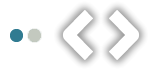
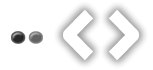
add tick and js

Changed region(s): [[0.0523, 0.4, 0.2876, 0.6286]]

diff --git a/js/aqua-script.js b/js/aqua-script.js
@@ -2,6 +2,7 @@
 	$.fn.extend({
 		aquaSlider: function(width,height,type){
 			var aqua_self = $(this);
+			aqua_self.wrap("<div class='aqua-slider-control-container'></div>");
 			var options = {
 				w: width,
 				h: height,
@@ -26,6 +27,10 @@
 				width: options.w,
 				height: options.h
 			});
+			$(".aqua-slider-control-container").css({
+				width: options.w,
+				height: options.h
+			})
 
 			// Set class to all images 
 			var aqua_images_count = 0;
@@ -53,7 +58,7 @@
 			// "ticks" control
 			var aqua_tick_container = $("<div>");
 			aqua_tick_container.addClass("aqua-slider-bot-container");
-			$(".aqua-slider-container").append(aqua_tick_container);
+			$(".aqua-slider-container").after(aqua_tick_container);
 			$(".aqua-slider-bot-container").append("<div>");
 			var index;
 			for(index = 1;index<=aqua_images_count;index++){
@@ -120,14 +125,13 @@
 			}
 
 			function aqua_slider_current_tick(){
-				current = {
-					image: $(".aqua-slider-image-show"),
-					image_data: $(".aqua-slider-image-show").data("img-data-number"),
-				 	tick: $(".aqua-slider-tick-select").data("img-select-tick")
-				};
-
-				//var tick_target =  $.data()
-				//$(".aqua-slider-tick").
+				img_data = $(".aqua-slider-image-show").attr("img-data-number");
+				$(".aqua-slider-tick").each(function(){
+					if($(this).attr("img-select-tick") == img_data)
+						$(this).addClass("aqua-slider-tick-select").removeClass("aqua-slider-tick-deselect");
+					else
+						$(this).addClass("aqua-slider-tick-deselect").removeClass("aqua-slider-tick-select");
+				});
 			}
 
 			//btn right function
@@ -139,6 +143,7 @@
 					"opacity":0
 				},600,function(){
 					$(this).removeClass("aqua-slider-image-show").addClass("aqua-slider-image-hide");
+					aqua_slider_current_tick();
 				});
 				$(next.image).addClass("aqua-slider-image-show").removeClass("aqua-slider-image-hide").animate({"opacity":1},600);
 			});
@@ -151,6 +156,7 @@
 					"opacity":0
 				},600,function(){
 					$(this).removeClass("aqua-slider-image-show").addClass("aqua-slider-image-hide");
+					aqua_slider_current_tick();
 				});
 				$(next.image).addClass("aqua-slider-image-show").removeClass("aqua-slider-image-hide").animate({"opacity":1},600);
 			});

diff --git a/css/aqua-style.css b/css/aqua-style.css
@@ -1,4 +1,4 @@
-.aqua-slider-container{
+.aqua-slider-container,.aqua-slider-control-container{
 	overflow: hidden;
 	position: relative
 }
@@ -39,26 +39,28 @@
 }
 
 .aqua-slider-bot-container{
-	width:100%;
+	width: 45%;
+	left: 27.5%;
+	right: 27.5%;
 	height: 40px;
-	background-color: #c7dcdf;
 	position: absolute;
 	bottom: 0%;
 	z-index: 9999 !important;
+	text-align: center;
 }
 
 .aqua-slider-bot-container div{
-	padding: 0px;
-	width: 90%;
-	position: relative;
 	height: 100%;
-	margin: 0px auto;
+	width: auto;
 	padding: 10px;
+	margin: 0px auto 0px 25%;
+	position: absolute;
+	background-color: rgb(255, 255, 255);
 }
 
 .aqua-slider-tick{
 	width: 20px !important;
-	height: 20px !important;
+	height: 24px !important;
 	position: relative;
 	background-position: -7px -26px;
 	float: left;
@@ -67,11 +69,11 @@
 }
 
 .aqua-slider-tick-select{
-	background-position: -7px -26px;
+	background-position: -8px -26px;
 }
 
 .aqua-slider-tick-deselect{
-	background-position: -25px -26px;
+	background-position: -26px -26px;
 }
 
 .aqua-slider-image-show{
